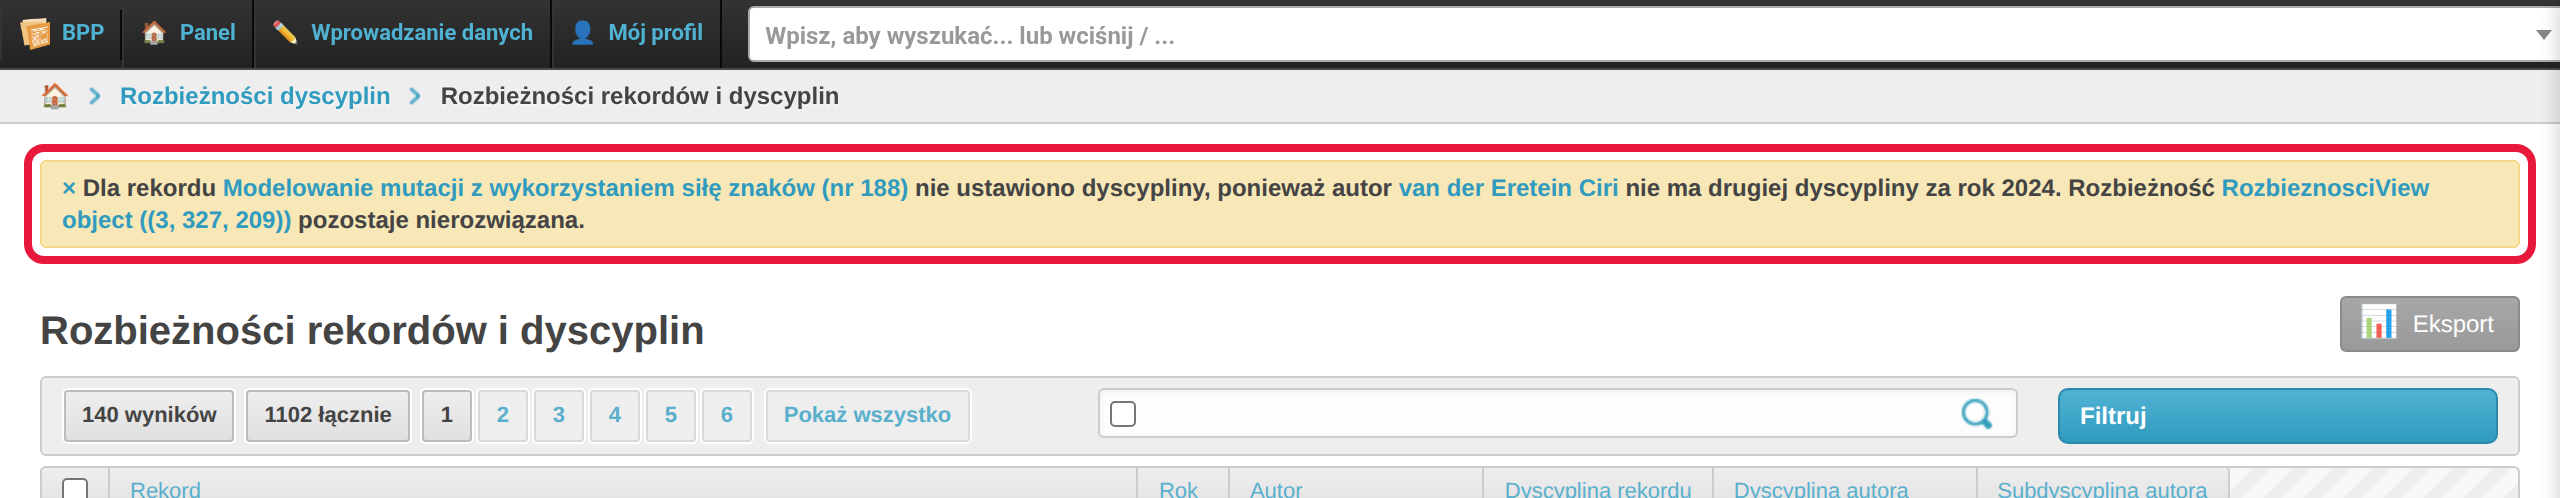
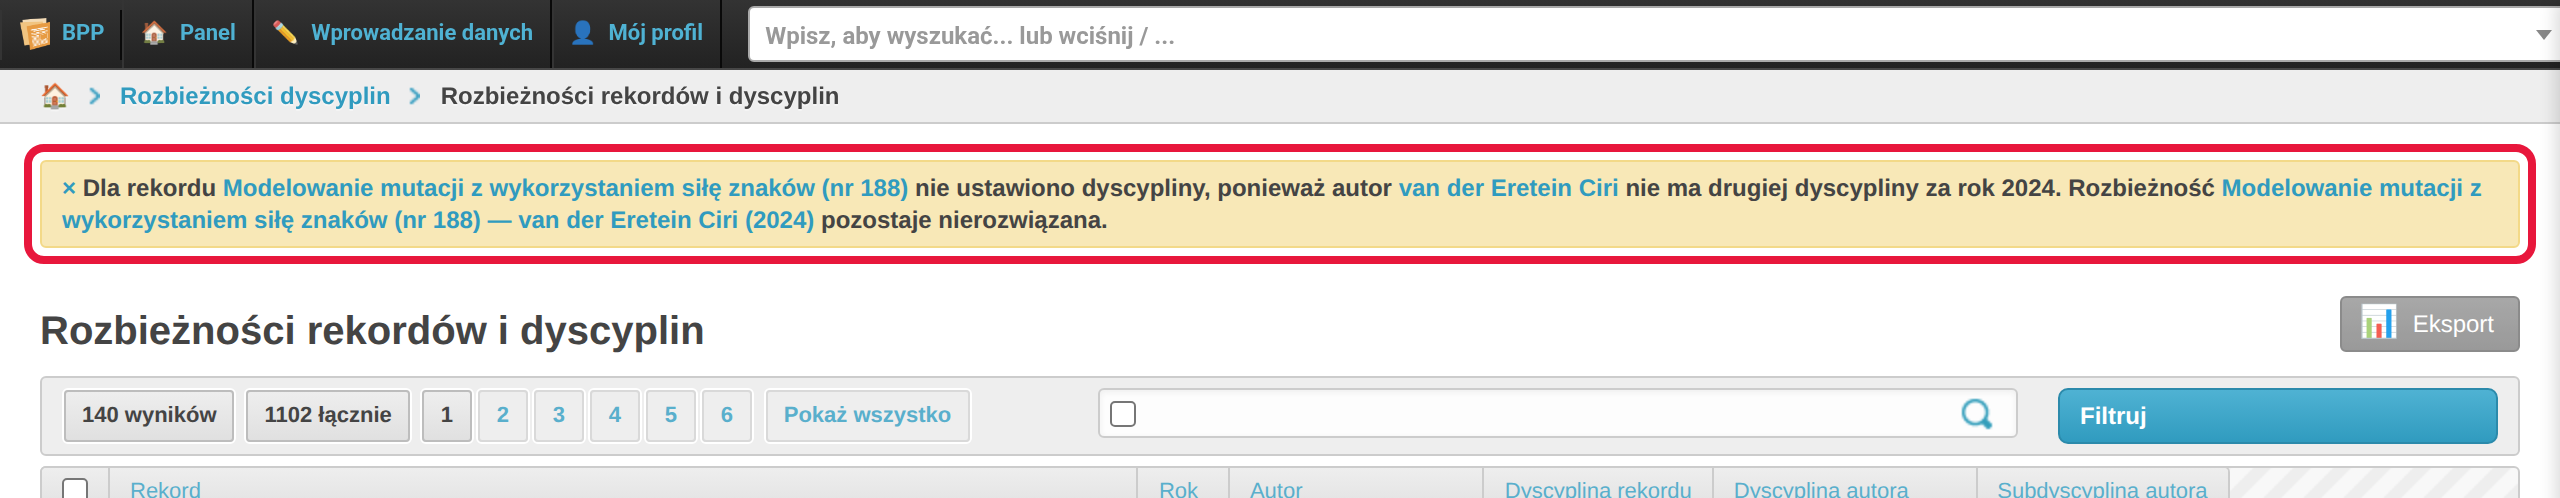
fix(rozbieznosci_dyscyplin): readable name for discrepancy rows
Links, breadcrumbs and action messages showed "RozbieznosciView object
((3, 327, 209))". The views now render "<title, max 80 chars> — <author>
(<year>)" and, for sources, "<title> — <journal> (<year>)". A related row
missing behind a DO_NOTHING FK falls back to its id instead of raising.

Re-took screenshots 04 (breadcrumb) and 07 (warning message).

Changed region(s): [[0.0, 0.4217, 0.4375, 0.4819], [0.8438, 0.3614, 0.9688, 0.3916]]

diff --git a/src/rozbieznosci_dyscyplin/tests/test_czytelna_nazwa.py b/src/rozbieznosci_dyscyplin/tests/test_czytelna_nazwa.py
@@ -1,0 +1,92 @@
+"""Readable ``__str__`` of the discrepancy views (links, breadcrumbs, messages)."""
+
+import pytest
+
+from bpp.models import Autor_Dyscyplina
+from rozbieznosci_dyscyplin.admin import (
+    SUBDYSCYPLINA_AUTORA,
+    ResultNotifier,
+    real_ustaw_dyscypline,
+)
+from rozbieznosci_dyscyplin.models import RozbieznosciView, RozbieznosciZrodelView
+
+
+@pytest.mark.django_db
+def test_rozbieznosci_view_str(zle_przypisana_praca, autor_jan_kowalski):
+    elem = RozbieznosciView.objects.get()
+
+    tekst = str(elem)
+
+    assert "object (" not in tekst
+    assert zle_przypisana_praca.tytul_oryginalny in tekst
+    assert autor_jan_kowalski.nazwisko in tekst
+    assert tekst.endswith(f"({zle_przypisana_praca.rok})")
+
+
+@pytest.mark.django_db
+def test_rozbieznosci_view_str_dlugi_tytul_skrocony(zle_przypisana_praca):
+    zle_przypisana_praca.tytul_oryginalny = "<i>Bardzo</i> długi tytuł " * 20
+    zle_przypisana_praca.save()
+
+    tekst = str(RozbieznosciView.objects.get())
+
+    assert "<i>" not in tekst
+    assert "…" in tekst
+    assert len(tekst.split(" — ")[0]) <= 80
+
+
+@pytest.mark.django_db
+def test_rozbieznosci_view_str_brak_powiazanych():
+    elem = RozbieznosciView(
+        id=[1, 2, 3], rekord_id=[999, 999], autor_id=999999, rok=2024
+    )
+
+    tekst = str(elem)
+
+    assert "999999" in tekst
+    assert "(2024)" in tekst
+
+
+@pytest.mark.django_db
+def test_rozbieznosci_zrodel_view_str(wydawnictwo_ciagle, zrodlo):
+    elem = RozbieznosciZrodelView(
+        id=[1, 2, 3, 4],
+        zrodlo=zrodlo,
+        wydawnictwo_ciagle=wydawnictwo_ciagle,
+        rok=2024,
+    )
+
+    tekst = str(elem)
+
+    assert "object (" not in tekst
+    assert wydawnictwo_ciagle.tytul_oryginalny in tekst
+    assert zrodlo.nazwa in tekst
+    assert tekst.endswith("(2024)")
+
+
+@pytest.mark.django_db
+def test_rozbieznosci_zrodel_view_str_brak_powiazanych():
+    elem = RozbieznosciZrodelView(
+        id=[1, 2, 3, 4], zrodlo_id=999998, wydawnictwo_ciagle_id=999997, rok=2024
+    )
+
+    tekst = str(elem)
+
+    assert "999998" in tekst
+    assert "999997" in tekst
+
+
+@pytest.mark.django_db
+def test_ostrzezenie_bez_object(zle_przypisana_praca):
+    Autor_Dyscyplina.objects.filter(
+        autor=zle_przypisana_praca.autorzy.first(), rok=zle_przypisana_praca.rok
+    ).update(subdyscyplina_naukowa=None)
+    pk = RozbieznosciView.objects.get().pk
+
+    notifier = ResultNotifier()
+    real_ustaw_dyscypline(SUBDYSCYPLINA_AUTORA, [pk], notifier)
+
+    assert len(notifier.retbuf) == 1
+    komunikat = notifier.retbuf[0][1]
+    assert "nie ma drugiej dyscypliny" in komunikat
+    assert "object (" not in komunikat

diff --git a/src/rozbieznosci_dyscyplin/models.py b/src/rozbieznosci_dyscyplin/models.py
@@ -1,8 +1,36 @@
+from django.core.exceptions import ObjectDoesNotExist
 from django.db import models
 from django.db.models import DO_NOTHING
+from django.utils.html import strip_tags
+from django.utils.text import Truncator
 
 from bpp.fields import YearField
 from bpp.models import BazaModeluOdpowiedzialnosciAutorow, TupleField
+
+DLUGOSC_TYTULU = 80
+
+
+def _opis(obj, pole, tekst, brak):
+    """Text for a related object of a DB-view row, or ``brak`` when it is gone.
+
+    The views use DO_NOTHING foreign keys, so the related row may have been
+    deleted after the view row was read.
+    """
+    try:
+        powiazany = getattr(obj, pole)
+    except ObjectDoesNotExist:
+        return brak
+    return tekst(powiazany)
+
+
+def _tytul(rekord):
+    return Truncator(strip_tags(rekord.tytul_oryginalny or "").strip()).chars(
+        DLUGOSC_TYTULU
+    )
+
+
+def _autor(autor):
+    return f"{autor.nazwisko} {autor.imiona}"
 
 
 class RozbieznosciViewBase(models.Model):
@@ -26,6 +54,11 @@ class RozbieznosciViewBase(models.Model):
         managed = False
         abstract = True
         ordering = ["id"]
+
+    def __str__(self):
+        tytul = _opis(self, "rekord", _tytul, f"rekord #{self.rekord_id}")
+        autor = _opis(self, "autor", _autor, f"autor #{self.autor_id}")
+        return f"{tytul} — {autor} ({self.rok})"
 
 
 class BrakPrzypisaniaView(RozbieznosciViewBase):
@@ -93,3 +126,13 @@ class RozbieznosciZrodelView(models.Model):
         managed = False
         verbose_name = "rozbieżność dyscyplin źródeł"
         verbose_name_plural = "rozbieżności dyscyplin źródeł"
+
+    def __str__(self):
+        tytul = _opis(
+            self,
+            "wydawnictwo_ciagle",
+            _tytul,
+            f"wydawnictwo ciągłe #{self.wydawnictwo_ciagle_id}",
+        )
+        zrodlo = _opis(self, "zrodlo", lambda z: z.nazwa, f"źródło #{self.zrodlo_id}")
+        return f"{tytul} — {zrodlo} ({self.rok})"

diff --git a/src/bpp/newsfragments/rozbieznosci-dyscyplin-czytelna-nazwa.bugfix.rst b/src/bpp/newsfragments/rozbieznosci-dyscyplin-czytelna-nazwa.bugfix.rst
@@ -1,0 +1,1 @@
+Rozbieżności dyscyplin: rozbieżność ma czytelną nazwę (tytuł pracy, autor lub źródło i rok) w komunikatach i nawigacji zamiast „RozbieznosciView object (…)”.
